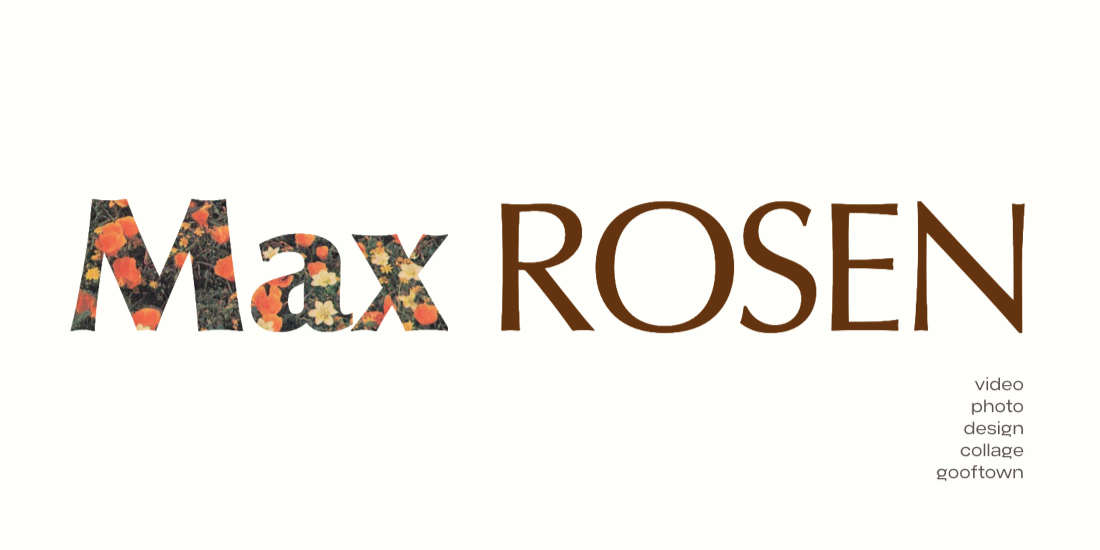
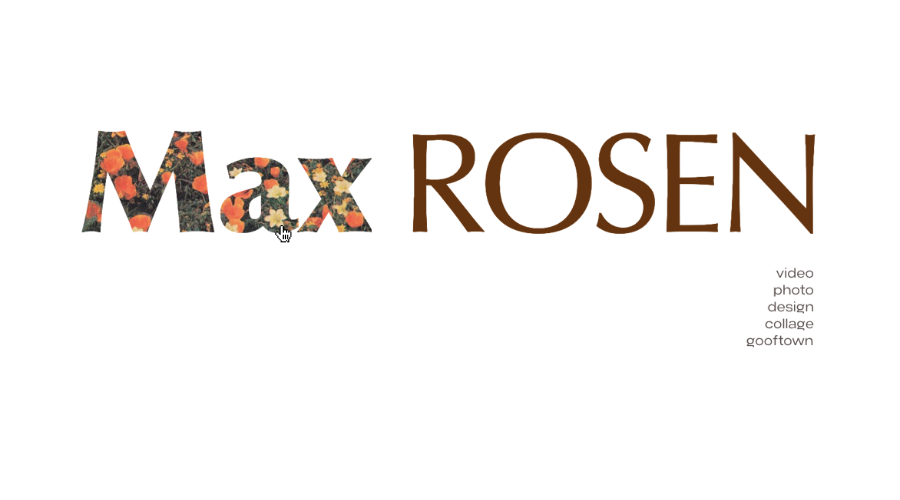
making modal image slideshow work on widths <1000px

Changed region(s): [[0.0622, 0.24, 0.9333, 0.87]]

diff --git a/styles/globals.scss b/styles/globals.scss
@@ -748,7 +748,9 @@ section.resume {
   overflow: hidden;
   padding: 0rem !important;
   margin: 0px !important;
+  position: relative;
   .projectDesignation {
+    position: relative;
     background: rgb(250, 250, 250);
     padding: 12px 0 9px 23px;
     display: block;
@@ -757,6 +759,7 @@ section.resume {
     font-family: "Epilogue";
     font-weight: 500;
     line-height: 35px;
+    z-index: 777;
     // letter-spacing: 0.05em;
     // border-bottom: solid 1px rgb(214, 214, 214);
   }
@@ -771,6 +774,7 @@ section.resume {
     svg {
       transition: all 0.15s ease;
       fill: grey !important;
+      z-index: 778;
     }
   }
   .modalBody {
@@ -817,7 +821,6 @@ section.resume {
         ul {
           height: 100%;
           width: 100%;
-
           li {
             position: absolute;
             height: 100%;
@@ -965,7 +968,6 @@ section.resume {
       }
     }
     &.maxRosen {
-      background: #fefefa !important;
       .modalSubheading {
         padding-left: 2px;
         .lilCapsule {
@@ -1077,12 +1079,11 @@ section.resume {
 // ╚═╝     ╚═╝ ╚═════╝ ╚═════╝ ╚═╝  ╚═╝╚══════╝     ╚═════╝ ╚═╝  ╚═══╝╚═════╝ ╚══════╝╚═╝  ╚═╝     ╚═╝ ╚═════╝  ╚═════╝  ╚═════╝ ╚═╝     ╚═╝  ╚═╝         ╚═╝
 @media screen and (max-width: 1000px) {
   .react-responsive-modal-overlay {
-    // overflow-y
   }
   .customModal {
     overflow-y: visible;
     .modalBody {
-      padding: 3rem 3rem 5rem 3rem;
+      padding: 0rem 1rem 5rem 1rem;
       .modalHeader {
         display: none;
       }
@@ -1092,6 +1093,7 @@ section.resume {
       .modalContent {
         display: block;
         width: 100%;
+        transform: translateY(-60%);
         .modalImagesContainer {
           display: block;
           width: 100%;
@@ -1104,12 +1106,14 @@ section.resume {
         }
         .modalHeaderLower {
           display: block;
-          margin-block-start: 3rem;
+          margin-block-start: 3.5rem;
+          padding-left: 4rem;
           line-height: 90%;
         }
         .modalSubheadingLower {
           display: block;
-          margin-block-end: 1rem;
+          margin-block-end: 1.8rem;
+          padding-left: 4rem;
           .lilCapsule {
             font-size: 0.7rem;
             font-family: "Epilogue";
@@ -1123,17 +1127,45 @@ section.resume {
         }
         .modalDetails {
           display: block;
-          padding: 0rem 0rem 3rem 5px;
-          width: 80%;
+          padding: 0rem 4rem 3rem 4rem;
+          width: 90%;
+          p {
+            font-size: 1.4rem;
+            line-height: 1.3;
+          }
           // THE DIVIDING LINE CREATED WITH ':BEFORE' PSEUDO-ELEMENT
           &:before {
             display: none;
           }
           .visitButton {
-            margin-block-start: 1.5rem;
+            margin-block-start: 2.5rem;
             margin-block-end: 2rem;
             display: block;
             width: 200px;
+          }
+        }
+      }
+      &.maxRosen {
+        .modalContent {
+          .modalSubheadingLower {
+            .lilCapsule {
+              background: pink;
+            }
+          }
+        }
+      }
+      &.calvinTodd {
+        .modalContent {
+          .modalImagesContainer {
+            ul {
+              li {
+                max-width: 100%;
+                max-height: 100%;
+                img {
+                  max-width: 850px;
+                }
+              }
+            }
           }
         }
       }

diff --git a/styles/globals.css b/styles/globals.css
@@ -752,9 +752,11 @@ section.resume a:hover img {
   overflow: hidden;
   padding: 0rem !important;
   margin: 0px !important;
+  position: relative;
 }
 
 .customModal .projectDesignation {
+  position: relative;
   background: #fafafa;
   padding: 12px 0 9px 23px;
   display: block;
@@ -763,6 +765,7 @@ section.resume a:hover img {
   font-family: "Epilogue";
   font-weight: 500;
   line-height: 35px;
+  z-index: 777;
 }
 
 .customModal button {
@@ -778,6 +781,7 @@ section.resume a:hover img {
   -webkit-transition: all 0.15s ease;
   transition: all 0.15s ease;
   fill: grey !important;
+  z-index: 778;
 }
 
 .customModal .modalBody {
@@ -1132,10 +1136,6 @@ section.resume a:hover img {
   max-height: 100%;
 }
 
-.customModal .modalBody.maxRosen {
-  background: #fefefa !important;
-}
-
 .customModal .modalBody.maxRosen .modalSubheading {
   padding-left: 2px;
 }
@@ -1339,7 +1339,7 @@ section.resume a:hover img {
     overflow-y: visible;
   }
   .customModal .modalBody {
-    padding: 3rem 3rem 5rem 3rem;
+    padding: 0rem 1rem 5rem 1rem;
   }
   .customModal .modalBody .modalHeader {
     display: none;
@@ -1350,6 +1350,8 @@ section.resume a:hover img {
   .customModal .modalBody .modalContent {
     display: block;
     width: 100%;
+    -webkit-transform: translateY(-60%);
+            transform: translateY(-60%);
   }
   .customModal .modalBody .modalContent .modalImagesContainer {
     display: block;
@@ -1358,14 +1360,16 @@ section.resume a:hover img {
   }
   .customModal .modalBody .modalContent .modalHeaderLower {
     display: block;
-    -webkit-margin-before: 3rem;
-            margin-block-start: 3rem;
+    -webkit-margin-before: 3.5rem;
+            margin-block-start: 3.5rem;
+    padding-left: 4rem;
     line-height: 90%;
   }
   .customModal .modalBody .modalContent .modalSubheadingLower {
     display: block;
-    -webkit-margin-after: 1rem;
-            margin-block-end: 1rem;
+    -webkit-margin-after: 1.8rem;
+            margin-block-end: 1.8rem;
+    padding-left: 4rem;
   }
   .customModal .modalBody .modalContent .modalSubheadingLower .lilCapsule {
     font-size: 0.7rem;
@@ -1379,19 +1383,33 @@ section.resume a:hover img {
   }
   .customModal .modalBody .modalContent .modalDetails {
     display: block;
-    padding: 0rem 0rem 3rem 5px;
-    width: 80%;
+    padding: 0rem 4rem 3rem 4rem;
+    width: 90%;
+  }
+  .customModal .modalBody .modalContent .modalDetails p {
+    font-size: 1.4rem;
+    line-height: 1.3;
   }
   .customModal .modalBody .modalContent .modalDetails:before {
     display: none;
   }
   .customModal .modalBody .modalContent .modalDetails .visitButton {
-    -webkit-margin-before: 1.5rem;
-            margin-block-start: 1.5rem;
+    -webkit-margin-before: 2.5rem;
+            margin-block-start: 2.5rem;
     -webkit-margin-after: 2rem;
             margin-block-end: 2rem;
     display: block;
     width: 200px;
+  }
+  .customModal .modalBody.maxRosen .modalContent .modalSubheadingLower .lilCapsule {
+    background: pink;
+  }
+  .customModal .modalBody.calvinTodd .modalContent .modalImagesContainer ul li {
+    max-width: 100%;
+    max-height: 100%;
+  }
+  .customModal .modalBody.calvinTodd .modalContent .modalImagesContainer ul li img {
+    max-width: 850px;
   }
 }
 
